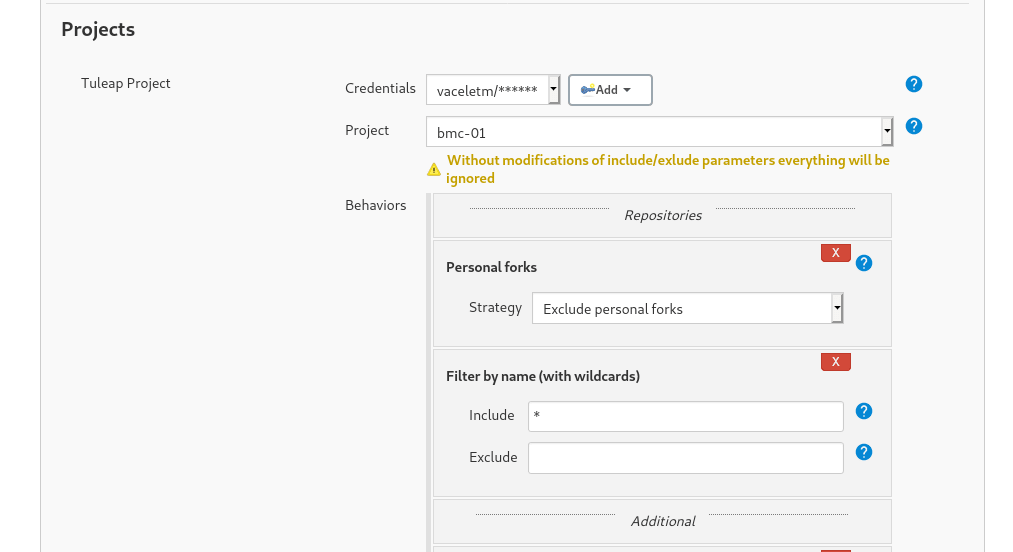
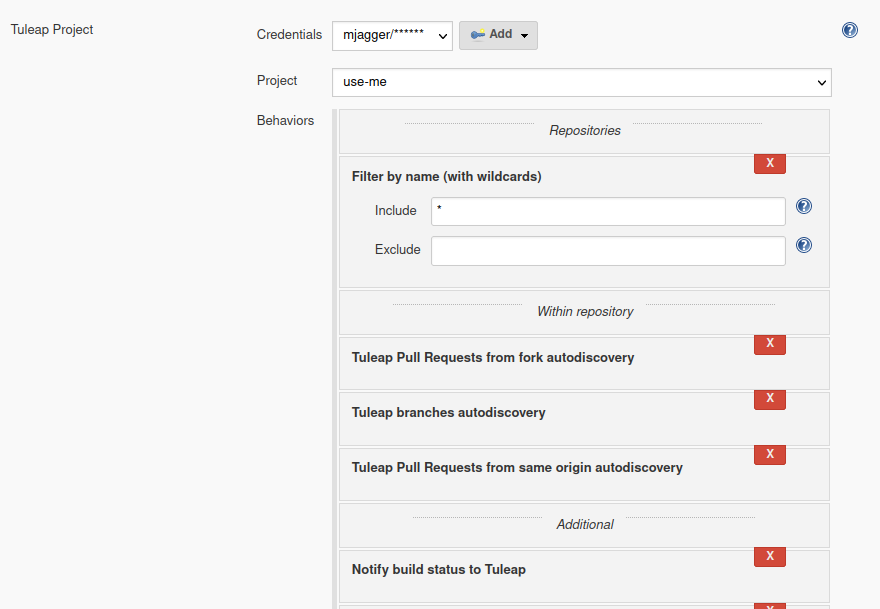
add mention of pull request support in jenkins plugins and minimal versions needed

diff --git a/languages/en/user-guide/ci.rst b/languages/en/user-guide/ci.rst
@@ -14,13 +14,11 @@ In case of doubt the strategy of "One Tuleap Project, one Jenkins Master" is saf
 Jenkins Configuration
 ---------------------
 
-This section will cover how to configure a Jenkins server to be used efficiently with Tuleap. We assume a fresh Jenkins
-instance that was just installed.
-
-Some adaptations might be needed if you modify an existing Jenkins server (be very careful with authentication to not lock
-yourself out of Jenkins).
-
 .. attention::
+   
+    The currently minimal Jenkins version is **2.222.4**
+
+    The currently minimal Tuleap version should be **12.11**
 
     Both Jenkins and Tuleap servers **must** be in https and certificate must be either `valid <https://certbot.eff.org/lets-encrypt/centosrhel7-nginx.html>`_
     or, at least, trusted.
@@ -30,6 +28,14 @@ yourself out of Jenkins).
     - `Jenkins must trust Tuleap server certificate <https://support.cloudbees.com/hc/en-us/articles/203821254-How-to-install-a-new-SSL-certificate>`_
     - `Jenkins must run behind a reverse proxy that does TLS termination <https://www.jenkins.io/doc/book/system-administration/reverse-proxy-configuration-nginx/>`_
     - :ref:`Tuleap must trust Jenkins server certificate <admin_howto_add_certicate>`
+
+This section will cover how to configure a Jenkins server to be used efficiently with Tuleap. We assume a fresh Jenkins
+instance that was just installed.
+
+Some adaptations might be needed if you modify an existing Jenkins server (be very careful with authentication to not lock
+yourself out of Jenkins).
+
+Each Jenkins plugin for Tuleap has a minimal version of Tuleap associated:
 
 Plugins installation
 ````````````````````
@@ -304,7 +310,7 @@ integration between the two tools is completely streamlined.
 The configuration is done once at project level, then every new git repository created in Tuleap will be automatically
 discovered by Jenkins, branches will be inspected to find ``Jenkinsfile`` and created corresponding pipelines.
 
-Whenever a new commit will be pushed, the corresponding job will be triggered on Jenkins.
+Whenever a new commit will be pushed or a Pull Request created, the corresponding job will be triggered on Jenkins.
 
 Step 1: Have an access key to your repositories
 ```````````````````````````````````````````````
@@ -340,15 +346,26 @@ Once the credential is saved, select it in the "Credentials" dropdown.
 
 In the "Project" dropdown right after, select the Tuleap project you want to automate.
 
-You can adjust "Behaviours" to match your need. By default we suggest to remove ``*`` from ``Exclude`` field of "Filter by name (with wildcards)" section
-otherwise nothing will be built at all.
+You can adjust "Behaviours" to match your need. The ``tuleap-git-branch-source`` plugin proposes 4 configuration traits:
+
++-----------------------------------------------------+-------------------+------------+----------------------------------------------------------------------------------------------------------------+
+| Trait Name                                          | Category          | By default | Behaviour                                                                                                      |
++=====================================================+===================+============+================================================================================================================+
+| Tuleap branches autodiscovery                       | Within Repository | Yes        | Discover all branches of the repository                                                                        |
++-----------------------------------------------------+-------------------+------------+----------------------------------------------------------------------------------------------------------------+
+| Tuleap Pull Requests from same origin autodiscovery | Within Repository | Yes        | Discover all Pull Requests created inside the repository                                                       |
++-----------------------------------------------------+-------------------+------------+----------------------------------------------------------------------------------------------------------------+
+| Tuleap Pull Requests from fork autodiscovery        | Within Repository | No         | Discover all Pull Requests coming from fork repositories                                                       |
++-----------------------------------------------------+-------------------+------------+----------------------------------------------------------------------------------------------------------------+
+| Notify build status to Tuleap                       | Additional        | No         | Automatically Notify Tuleap of the result of the build (will use the Access key configured in the scanner job) |
++-----------------------------------------------------+-------------------+------------+----------------------------------------------------------------------------------------------------------------+
 
 .. figure:: ../images/screenshots/jenkins/tgbs_conf.png
    :align: center
    :alt: Configure Tuleap Project jenkins job
    :name: Configure Tuleap Project jenkins job
 
-When the configuration is ready, save it. This will trigger a scan of your project to look for git repositories, their branches
+When the configuration is ready, save it. This will trigger a scan of your project to look for git repositories, their branches, their pull requests,
 and ``Jenkinsfile`` to create Jenkins jobs.
 
 .. figure:: ../images/screenshots/jenkins/tgbs_scan.png
@@ -369,7 +386,7 @@ of the builds that were triggered.
     On Jenkins, in your project settings, you might also want to adjust "Scan Project Triggers" to a shorter period
     otherwise you will have to wait for 1 day between a new repository creation and jenkins to discover it.
 
-    As this will trigger a full analyze of all branches of git repositories of your Tuleap project, you need to find a
+    As this will trigger a full analyze of all branches and pull requests of git repositories of your Tuleap project, you need to find a
     balance between reactivity and Tuleap server overloading.
 
     If you don't create a new repository every other hours, you might want to let 1 day period and trigger manually the
